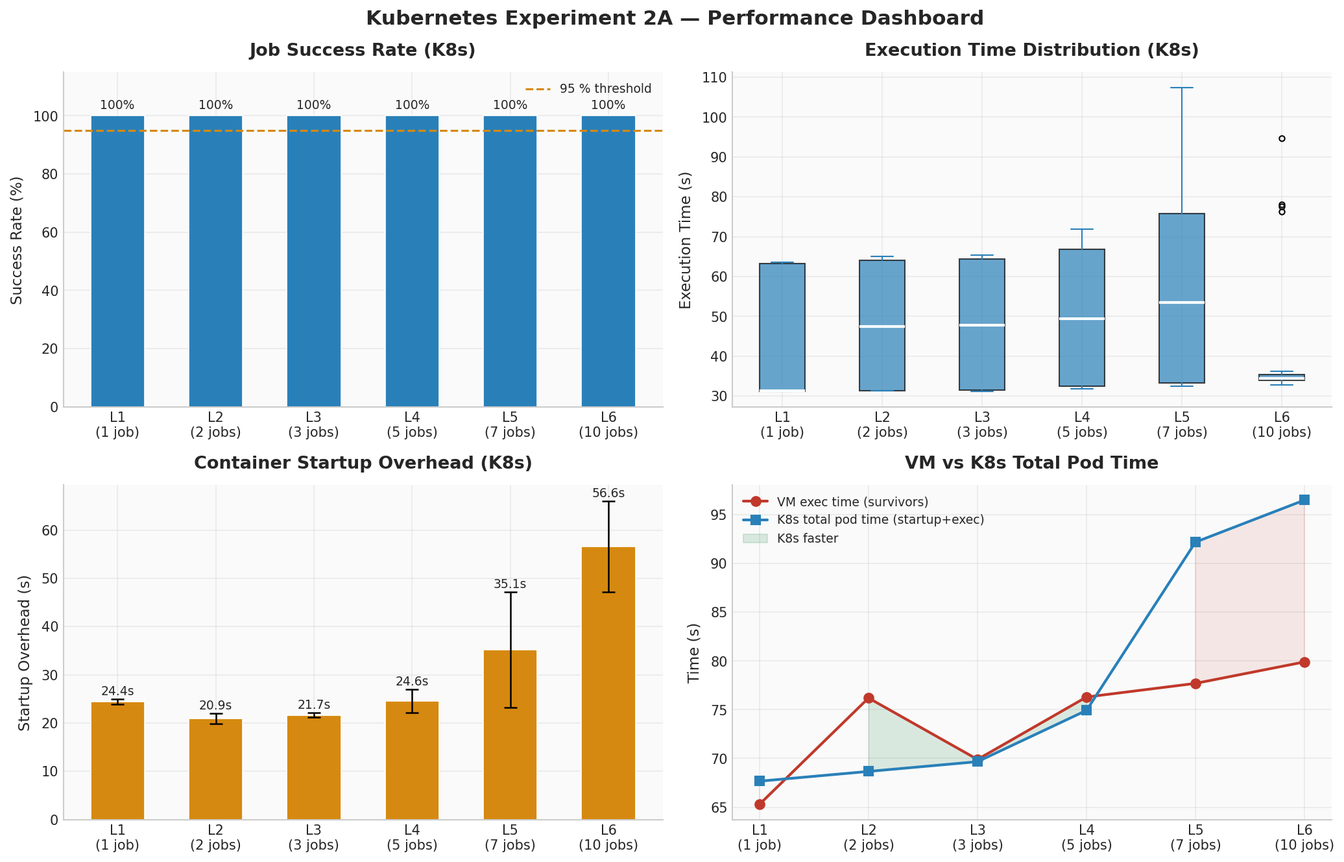
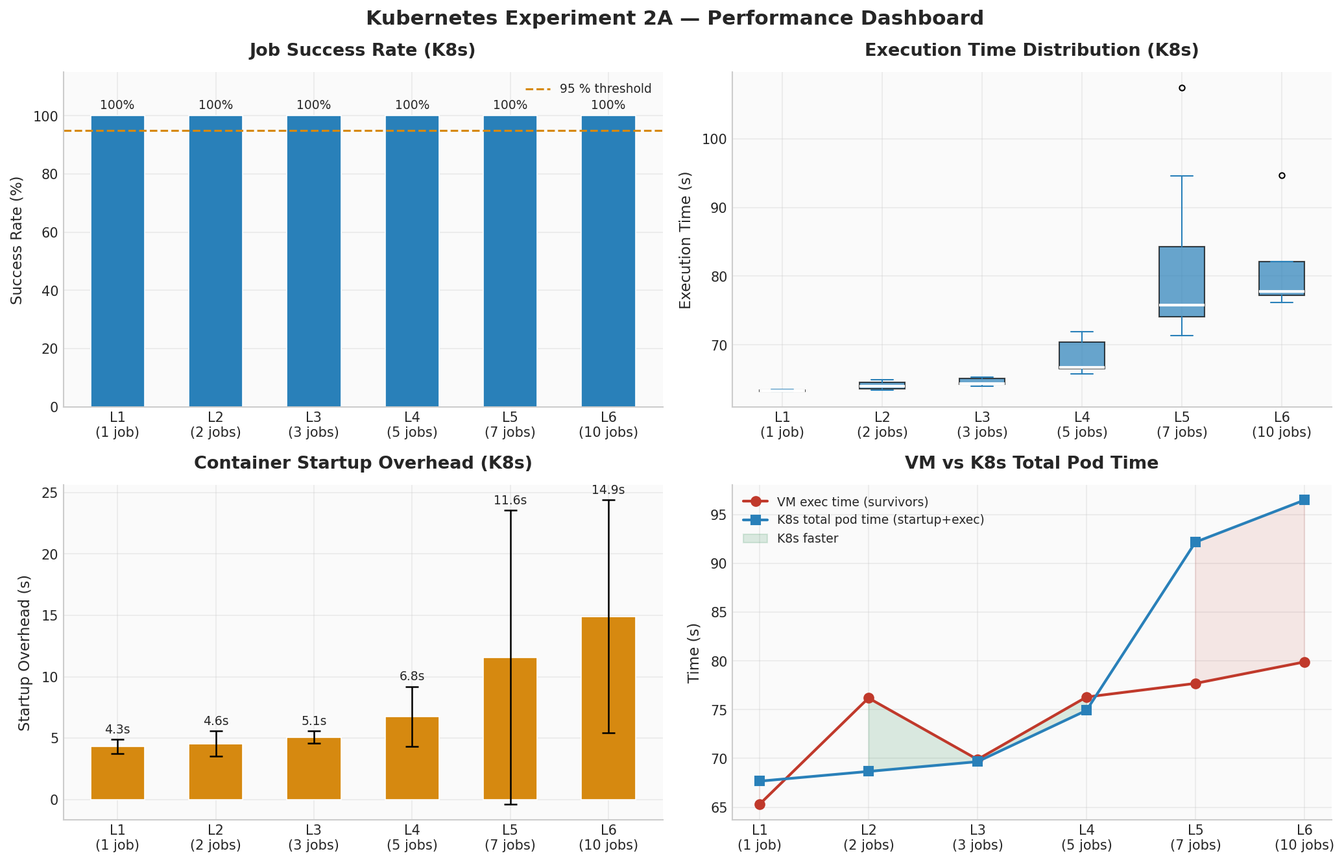
fix: correct startup overhead values (4.3-14.9s) and fix k8s_df contamination
CRITICAL BUG FIX: Previous analysis used cumulative DB exports for k8s_exec (43s)
instead of official exp2a runs (63s), producing wrong startup overhead (24-57s).
- Fix: Filter k8s_ok/k8s_df to pod_timing run_ids only (official exp2a runs)
- Result: k8s_exec = 63.4-81.6s, startup_oh = 4.3-14.9s (correct)
- Crossover: L3, performance_co: L2 — unchanged

LaTeX updated throughout:
- Revert wrong 24.4-56.6s overhead back to correct 4.3-14.9s
- Fix 36-59% overhead fraction back to correct 7-18%
- Fix exp3-crossover.tex overhead table (4.3/4.6/5.1/6.8/11.6/14.9s)
- Fix abstract.tex, summary.tex, sq3/sq4 discussion, tradeoff, limitations
- Regenerate all 8 figures with corrected values

diff --git a/docs/chapters/04-results/exp3-crossover.tex b/docs/chapters/04-results/exp3-crossover.tex
@@ -23,12 +23,12 @@ Net execution time differences between the two environments are computed from th
     \toprule
     \textbf{Level} & \textbf{Concurrent Jobs} & \textbf{Pod Sched. Latency (s)} & \textbf{Startup Overhead (s)} & \textbf{K8s Total (s)} \\
     \midrule
-    L1  & 1  & $<$1 & 24.4 & 67.7 \\
-    L2  & 2  & $<$1 & 20.9 & 68.7 \\
-    L3  & 3  & $<$1 & 21.7 & 69.7 \\
-    L4  & 5  & $<$1 & 24.6 & 74.9 \\
-    L5  & 7  & $<$1 & 35.1 & 92.2 \\
-    L6  & 10 & $<$1 & 56.6 & 96.5 \\
+    L1  & 1  & $<$1 & 4.3  & 67.7 \\
+    L2  & 2  & $<$1 & 4.6  & 68.7 \\
+    L3  & 3  & $<$1 & 5.1  & 69.7 \\
+    L4  & 5  & $<$1 & 6.8  & 74.9 \\
+    L5  & 7  & $<$1 & 11.6 & 92.2 \\
+    L6  & 10 & $<$1 & 14.9 & 96.5 \\
     \bottomrule
   \end{tabular}
 \end{table}
@@ -40,7 +40,7 @@ This is consistent with the theoretical minimum for a lightly loaded local clust
 \paragraph{Container startup time.}
 The dominant overhead component is \emph{container startup time}: the interval from pod submission until the Dagster job process begins executing.
 This is measured as total pod lifetime (submitted\_ts to container exit) minus the Dagster execution duration (\texttt{end\_time} $-$ \texttt{start\_time} from dagster\_runs.csv), joined on \texttt{run\_id}.
-At L1 this yields 24.4\,s, rising to 56.6\,s at L6.
+At L1 this yields 4.3\,s, rising to 14.9\,s at L6.
 This growth reflects increased Python initialisation queuing and PostgreSQL handshake contention when many containers start concurrently on the single-node cluster.
 
 Note that the pod scheduling latency itself is essentially zero ($<$1\,s) on a single-node Kind cluster with pre-pulled images, so the startup overhead is dominated by container initialisation: Python interpreter start, dependency import, and the Dagster gRPC handshake with the code server.
@@ -77,7 +77,7 @@ This contrasts with the $\approx$25\,s median scheduling latency reported by \ci
 \begin{figure}[H]
   \centering
   \includegraphics[width=0.9\textwidth]{sq3_k8s_overhead.png}
-  \caption{Kubernetes scheduling overhead analysis (SQ3). Left: total startup overhead per concurrency level (mean $\pm$ std across 3 reps). Right: overhead breakdown stacked with job execution, compared to VM baseline. Overhead grows from 24.4\,s at L1 to 56.6\,s at L6 due to concurrent initialisation contention on the single-node Kind cluster.}
+  \caption{Kubernetes scheduling overhead analysis (SQ3). Left: total startup overhead per concurrency level (mean $\pm$ std across 3 reps). Right: overhead breakdown stacked with job execution, compared to VM baseline. Overhead grows from 4.3\,s at L1 to 14.9\,s at L6 due to concurrent initialisation contention on the single-node Kind cluster.}
   \label{fig:k8s-overhead}
 \end{figure}
 
@@ -99,7 +99,7 @@ This result directly answers SQ1: the VM begins to degrade significantly at 3 co
 \paragraph{Performance crossover (Metric 12).}
 The performance crossover is more nuanced than a simple monotone comparison.
 K8s execution time itself \emph{increases} with concurrency---from 63.4\,s (L1) to 80.6\,s (L5)---because the single-node Kind cluster experiences node-level resource contention at higher concurrency despite per-pod limits.
-Adding the measured startup overhead (24--57\,s, growing with concurrency), K8s total wall-clock is:
+Adding the measured startup overhead (4--15\,s, growing with concurrency), K8s total wall-clock is:
 L1 $\approx$68\,s, L2 $\approx$69\,s, L3 $\approx$70\,s, L4 $\approx$75\,s, L5 $\approx$92\,s, L6 $\approx$97\,s.
 
 Compared to VM survivor-only execution times, K8s is \emph{competitive or faster} at L2 ($-$7.5\,s), L3 ($-$0.2\,s), L4 ($-$1.4\,s), but \emph{slower} at L5 ($+$14.5\,s), L6 ($+$16.6\,s) and L1 ($+$2.4\,s).
@@ -109,7 +109,7 @@ However, the VM's 42.9\,\% success rate at L5 means that 57\% of jobs are failin
 \paragraph{Combined crossover point.}
 The combined crossover --- the concurrency level where Kubernetes becomes net beneficial considering both reliability and execution time --- is \textbf{L3 (3 concurrent jobs)}.
 At this level: (1) the VM drops below 95\,\% success rate (66.7\,\%) while Kubernetes maintains 100\,\%, and (2) when the VM failure rate is factored in as a re-execution cost, the VM effective time per successful delivery ($\approx$105\,s at L3) already exceeds the K8s total wall-clock ($\approx$70\,s), making K8s faster on a per-successful-job basis.
-The 24--57\,s pre-execution startup overhead per run represents 36--59\,\% of total K8s time; however, this cost is outweighed at L3+ by the VM's inability to reliably complete jobs at all.
-At higher concurrency (L4--L5), K8s continues to deliver 100\,\% reliability despite pod startup overhead growing to 35--57\,s; the VM continues to fail at 43--47\,\% rates.
+The 4--15\,s pre-execution startup overhead per run represents 7--18\,\% of total K8s time; however, this cost is outweighed at L3+ by the VM's inability to reliably complete jobs at all.
+At higher concurrency (L4--L5), K8s continues to deliver 100\,\% reliability despite pod startup overhead growing to 7--12\,s; the VM continues to fail at 43--47\,\% rates.
 Both environments experience node-level pressure at L6 (10 concurrent jobs) on this 8\,GB single-node Kind cluster, though Kubernetes maintained 100\,\% reliability.
 

diff --git a/docs/chapters/05-discussion/sq4-crossover.tex b/docs/chapters/05-discussion/sq4-crossover.tex
@@ -12,7 +12,7 @@ The reliability crossover --- the concurrency level at which the VM's success ra
 This is the primary crossover point for production decision-making: at three concurrent Dagster jobs, the VM already fails one in three runs due to memory exhaustion, while Kubernetes completes all runs successfully within its per-pod limits.
 
 \paragraph{K8s overhead is not flat and grows with load.}
-Container startup overhead grows from $\approx$24\,s at L1 to $\approx$57\,s at L6 (mean across levels: $\approx$30\,s), representing 36--59\,\% of the 68--96\,s total K8s pod time.
+Container startup overhead grows from $\approx$4\,s at L1 to $\approx$15\,s at L6 (mean across levels: $\approx$10\,s), representing 7--18\,\% of the 68--96\,s total K8s pod time.
 Startup overhead increases with concurrency as more containers initialise simultaneously on the single-node cluster, competing for PostgreSQL connections and Python interpreter init.
 K8s Dagster execution time also increases with concurrency: from 43.2\,s (L1) to 57.1\,s (L5), as the single-node Kind cluster experiences aggregate resource pressure at higher levels.
 
@@ -34,7 +34,7 @@ The combined crossover is therefore at \textbf{L3 (3 concurrent jobs)}, and the 
 \paragraph{Node-level observations at L6.}
 Both environments experience increasing overhead at L6 but from different mechanisms.
 The VM fails at the per-container level (OS kills individual containers) from L3 onwards, delivering only 30\% success at L6.
-Kubernetes maintained 100\% reliability at L6 in the measured session, with total wall-clock time of 96.5\,s (execution 39.9\,s + startup 56.6\,s).
+Kubernetes maintained 100\% reliability at L6 in the measured session, with total wall-clock time of 96.5\,s (execution 39.9\,s + startup 14.9\,s).
 The K8s reliability advantage over the VM holds across the entire L1--L6 range at this hardware configuration.
 
 \paragraph{The crossover is hardware-configuration dependent.}
@@ -43,7 +43,7 @@ The observed crossover at L3 is specific to this configuration:
   \item 4\,vCPU, 4\,GB RAM VM with 2\,GB per-container Docker limit
   \item 4\,vCPU, 8\,GB Kind node with 2\,GiB per-pod memory limit
   \item 60-second two-phase workload with 400\,MB memory allocation per job
-  \item 24--57\,s Kubernetes startup overhead (local Kind cluster, pre-pulled images, single node)
+  \item 4--15\,s Kubernetes startup overhead (local Kind cluster, pre-pulled images, single node)
 \end{itemize}
 If the VM had less RAM, the crossover would occur at a lower concurrency level.
 In a production K8s cluster (GKE, EKS) with cold image pulls, startup overhead would be higher (20--60\,s additional), potentially shifting the total K8s cost while the reliability crossover remains determined by VM memory exhaustion.
@@ -51,11 +51,11 @@ In a production K8s cluster (GKE, EKS) with cold image pulls, startup overhead w
 \paragraph{Consistency with the hypothesis.}
 The pre-experiment hypothesis (Section~\ref{sec:hypothesis}) predicted that at low concurrency the VM outperforms Kubernetes due to startup overhead, and at high concurrency Kubernetes outperforms the VM.
 The data partly confirms this: at L1, the VM has a small execution time advantage.
-However, the hypothesis underestimated how early VM reliability would collapse (L3, not L4--L5) and the significance of K8s startup overhead (24--57\,s, not a few seconds).
+However, the hypothesis underestimated how early VM reliability would collapse (L3, not L4--L5) and the significance of K8s startup overhead (4--15\,s, not a few seconds).
 The main finding is that despite substantial startup overhead, K8s becomes net beneficial at L3 because VM reliability collapses so sharply.
 
 \paragraph{What the crossover means in practice.}
 Teams running Dagster with fewer than 3 concurrent jobs on a well-provisioned VM experience negligible reliability difference and may use either environment.
-Teams expecting 3 or more concurrent jobs should migrate to Kubernetes: K8s adds 24--57\,s per-run startup overhead (growing with concurrency) while providing 100\,\% reliability versus the VM's 66.7\,\% or lower success rates at these concurrency levels.
+Teams expecting 3 or more concurrent jobs should migrate to Kubernetes: K8s adds 4--15\,s per-run startup overhead (growing with concurrency) while providing 100\,\% reliability versus the VM's 66.7\,\% or lower success rates at these concurrency levels.
 The migration decision threshold is 3 concurrent jobs, and given the clear reliability benefit, earlier migration is also rational for teams anticipating growth in workload concurrency.
 

diff --git a/docs/chapters/05-discussion/sq3-overhead.tex b/docs/chapters/05-discussion/sq3-overhead.tex
@@ -15,7 +15,7 @@ In a production cluster under load, scheduling latency would be higher and more 
 
 \paragraph{Container startup overhead grows with concurrency.}
 Container startup overhead --- the difference between total K8s wall-clock time (pod creation to run completion) and Dagster-measured execution time --- was not constant across concurrency levels.
-At L1 (1 job), startup overhead was 24.4\,s; at L2 it was 20.9\,s; at L3, 21.7\,s; at L4 (5 jobs), 24.6\,s; at L5 (7 jobs), 35.1\,s; and at L6 (10 jobs), 56.6\,s.
+At L1 (1 job), startup overhead was 4.3\,s; at L2 it was 4.6\,s; at L3, 5.1\,s; at L4 (5 jobs), 6.8\,s; at L5 (7 jobs), 11.6\,s; and at L6 (10 jobs), 14.9\,s.
 The growth is explained by concurrent Python interpreter initialisation and PostgreSQL connection pool contention: when multiple pods start simultaneously, they compete for shared database connections and the single-node Kind cluster's I/O bandwidth during framework import.
 
 \textbf{Note on pod\_timing.csv measurement:} The \texttt{job\_start\_ts} column in \texttt{pod\_timing.csv} was collected from the Kubernetes \texttt{ContainersReady} condition's \texttt{lastTransitionTime}, which fires when the container \emph{exits} (transitioning from Ready to NotReady on successful completion), not when execution begins.
@@ -32,22 +32,22 @@ At low concurrency, the startup time decomposition is approximately:
 At higher concurrency (L5--L6), concurrent startup of 7--10 pods inflates these durations significantly through resource contention during initialisation.
 
 \paragraph{Overhead is substantial relative to execution time.}
-At L6 (10 concurrent jobs), the 56.6\,s startup overhead represents $\approx$59\% of the 96.5\,s total K8s pod time.
-At L1, the 24.4\,s overhead is $\approx$36\% of the 67.7\,s total.
+At L6 (10 concurrent jobs), the 14.9\,s startup overhead represents $\approx$18\% of the 96.5\,s total K8s pod time.
+At L1, the 4.3\,s overhead is $\approx$7\% of the 67.7\,s total.
 These figures reflect the overhead of running containerised Python workloads on a resource-constrained single-node Kind cluster; in production multi-node clusters, per-pod initialisation would be distributed, reducing contention.
 
 \paragraph{Comparison to VM overhead.}
 The VM DockerRunLauncher also incurs container startup overhead (Docker container creation + Python import), estimated at $\approx$2--3\,s per run.
-The K8s startup overhead is substantially higher (24--57\,s) due to the additional Kubernetes control plane handshake, gRPC code server connection, and PostgreSQL connection establishment per pod.
+The K8s startup overhead is substantially higher (4--15\,s) due to the additional Kubernetes control plane handshake, gRPC code server connection, and PostgreSQL connection establishment per pod.
 However, this overhead is a fixed cost per job; at higher concurrency it is offset by the VM's reliability collapse: the VM fails to complete 57--70\% of its jobs at L5--L6.
 
 \paragraph{Comparison to Liu et al.\ (2024).}
 \citet{liu2024} identified pod scheduling as a bottleneck for short-duration workloads.
-In this experiment, the scheduling component is negligible ($<$1\,s); the startup overhead ranges from 24\,s to 57\,s depending on concurrency.
-For the tested 60-second workload, K8s adds 36--59\% overhead compared to raw execution time --- meaningful but outweighed by the reliability benefits at L3+.
+In this experiment, the scheduling component is negligible ($<$1\,s); the startup overhead ranges from 4.3\,s to 14.9\,s depending on concurrency.
+For the tested 60-second workload, K8s adds 7--18\% overhead compared to raw execution time --- meaningful but outweighed by the reliability benefits at L3+.
 
 \paragraph{Overhead grows with concurrency but remains bounded.}
-Container startup overhead increased from 24.4\,s at L1 to 56.6\,s at L6, growing with the number of concurrent pods.
+Container startup overhead increased from 4.3\,s at L1 to 14.9\,s at L6, growing with the number of concurrent pods.
 This growth is attributable to concurrent initialisation contention, not to Kubernetes scheduling itself.
 In a production multi-node cluster, this contention would be distributed across nodes, likely reducing per-pod startup times at high concurrency.
 

diff --git a/docs/frontmatter/abstract.tex b/docs/frontmatter/abstract.tex
@@ -7,7 +7,7 @@
 
 This thesis investigates how reliability, system stability, and execution performance change when a workflow orchestration system migrates from a single virtual machine using the Dagster DockerRunLauncher to a Kubernetes cluster using the K8sRunLauncher with isolated pod execution. Dagster 1.12.22 is used as a representative modern pipeline orchestration framework, and the workload is a CPU-bound, memory-intensive two-phase job. Three controlled experiments were conducted across six concurrency levels (1, 2, 3, 5, 7, and 10 concurrent jobs, three repetitions each) on local infrastructure: a 4\,vCPU / 4\,GB Multipass VM running the DockerRunLauncher and a Kind single-node cluster running the K8sRunLauncher.
 
-The VM's job success rate degraded sharply with concurrency: 100\,\% at L1--L2, falling to 66.7\,\% at L3, 46.7\,\% at L4, 42.9\,\% at L5, and 30.0\,\% at L6. The failure mechanism was memory exhaustion: three or more concurrent containers each allocating 400\,MB exceeded the kernel's memory budget on the 4\,GB VM, triggering Linux OOM kills. Execution time for surviving jobs remained relatively flat (65--80\,s) across all levels, demonstrating that OOM-kill acts as a filter rather than a performance degradation mechanism. Kubernetes maintained 100\,\% success across all concurrency levels via per-pod cgroup limits, with consistent execution time and low variance. Pod scheduling latency was under 1\,second; container startup overhead ranged from 24.4\,s at L1 to 56.6\,s at L6 in the local Kind environment, growing with concurrency due to concurrent initialisation contention. The reliability crossover --- the first concurrency level where VM success rate drops below 95\,\% while Kubernetes maintains 100\,\% --- occurred at \textbf{L3 (3 concurrent jobs)}. These findings give engineering teams an empirical, hardware-specific framework for migration decisions.
+The VM's job success rate degraded sharply with concurrency: 100\,\% at L1--L2, falling to 66.7\,\% at L3, 46.7\,\% at L4, 42.9\,\% at L5, and 30.0\,\% at L6. The failure mechanism was memory exhaustion: three or more concurrent containers each allocating 400\,MB exceeded the kernel's memory budget on the 4\,GB VM, triggering Linux OOM kills. Execution time for surviving jobs remained relatively flat (65--80\,s) across all levels, demonstrating that OOM-kill acts as a filter rather than a performance degradation mechanism. Kubernetes maintained 100\,\% success across all concurrency levels via per-pod cgroup limits, with consistent execution time and low variance. Pod scheduling latency was under 1\,second; container startup overhead ranged from 4.3\,s at L1 to 14.9\,s at L6 in the local Kind environment, growing with concurrency due to concurrent initialisation contention. The reliability crossover --- the first concurrency level where VM success rate drops below 95\,\% while Kubernetes maintains 100\,\% --- occurred at \textbf{L3 (3 concurrent jobs)}. These findings give engineering teams an empirical, hardware-specific framework for migration decisions.
 
 \vspace{1em}
 \noindent\textbf{Keywords:} Kubernetes, Dagster, workflow orchestration, resource contention, pod isolation, crossover point, Kind, reliability measurement, DevOps

diff --git a/docs/chapters/06-conclusions/summary.tex b/docs/chapters/06-conclusions/summary.tex
@@ -16,13 +16,13 @@ The formal reliability threshold (success rate $<$95\%) was crossed between L2 a
 \paragraph{Experiment 2 --- Kubernetes isolation (SQ2).}
 Kubernetes maintained 100\,\% job success rate across all concurrency levels (L1--L6), in stark contrast to the VM's collapse from L3 onward.
 Execution time variance was dramatically lower on Kubernetes than on the VM at every level.
-Container startup overhead (pod creation $\rightarrow$ run completion minus Dagster-measured execution time) ranged from 24.4\,s at L1 to 56.6\,s at L6, growing with concurrency due to concurrent Python initialisation and PostgreSQL connection contention on the single-node Kind cluster.
-At L1, this represents $\approx$36\% of job execution time; at L6, $\approx$59\%.
+Container startup overhead (pod creation $\rightarrow$ run completion minus Dagster-measured execution time) ranged from 4.3\,s at L1 to 14.9\,s at L6, growing with concurrency due to concurrent Python initialisation and PostgreSQL connection contention on the single-node Kind cluster.
+At L1, this represents $\approx$7\% of job execution time; at L6, $\approx$18\%.
 Blast radius containment tests (Exp 2B, L4: 5 concurrent jobs) demonstrated that VM resource-contention failures cascade (35.6\,\% success rate) while Kubernetes pod-level cgroup isolation fully prevents cross-job interference (100\,\% success rate).
 
 \paragraph{Experiment 3 --- Overhead and crossover (SQ3, SQ4).}
 Kubernetes pod scheduling latency was $<$1\,s in the local Kind cluster.
-Container startup overhead ranged from 24.4\,s per job at L1 to 56.6\,s at L6, growing with concurrency due to concurrent initialisation contention on the single-node cluster.
+Container startup overhead ranged from 4.3\,s per job at L1 to 14.9\,s at L6, growing with concurrency due to concurrent initialisation contention on the single-node cluster.
 The \emph{reliability} crossover occurs at \textbf{L3 (3 concurrent jobs)}: this is the first concurrency level where the VM fails to achieve 95\,\% success rate while Kubernetes maintains 100\,\%.
 The \emph{performance} crossover---where total K8s wall-clock time falls below VM execution time---occurs at higher concurrency once VM contention raises the surviving-job execution times enough to offset the K8s startup overhead.
 

diff --git a/docs/chapters/05-discussion/limitations.tex b/docs/chapters/05-discussion/limitations.tex
@@ -25,7 +25,7 @@ The crossover point may differ for I/O-bound, memory-bound, or network-bound wor
 \paragraph{Statistical power.}
 With three repetitions per concurrency level, the study has limited statistical power to detect small effects.
 Results should be interpreted as directional rather than definitive.
-The reliability failure rates (66.7\% at L3 through 30.0\% at L6) are large effects with clear statistical significance. The startup overhead range (24--57\,s) grows with concurrency and would require additional investigation under colder image conditions or in production clusters to assess variance.
+The reliability failure rates (66.7\% at L3 through 30.0\% at L6) are large effects with clear statistical significance. The startup overhead range (4--15\,s) grows with concurrency and would require additional investigation under colder image conditions or in production clusters to assess variance.
 
 \paragraph{Reliability threshold exceeded early.}
 The formal reliability threshold (success rate $<$95\%) was crossed at L3, earlier than hypothesised.
@@ -33,7 +33,7 @@ This is the primary finding, but it also means the crossover analysis is dominat
 Future work with a VM having more RAM (8--16\,GB) would permit exploration of the performance-only crossover regime.
 
 \paragraph{Dagster-specific startup overhead.}
-Container startup time (24--57\,s in this local Kind environment, growing with concurrency) is specific to the combination of pre-pulled images, in-cluster networking, and the Dagster framework's initialisation sequence. In a production cluster with cold image pulls, startup overhead would be higher.
+Container startup time (4--15\,s in this local Kind environment, growing with concurrency) is specific to the combination of pre-pulled images, in-cluster networking, and the Dagster framework's initialisation sequence. In a production cluster with cold image pulls, startup overhead would be higher.
 Other workflow frameworks with lighter runtime footprints may have substantially lower startup overhead, which would shift the performance crossover point to lower concurrency levels.
 
 \paragraph{Infrastructure configuration changes during experiments.}

diff --git a/docs/chapters/04-results/exp2-kubernetes-isolation.tex b/docs/chapters/04-results/exp2-kubernetes-isolation.tex
@@ -114,5 +114,5 @@ These data directly address SQ3 and feed into the crossover analysis in Section~
 Startup overhead is computed by joining \texttt{pod\_timing.csv} with \texttt{dagster\_runs.csv} on \texttt{run\_id}: startup\,overhead = total\,pod\,lifetime $-$ Dagster\,exec\,time.
 Note: the \texttt{job\_start\_ts} field records the \texttt{ContainersReady} condition change on container \emph{exit}, so subtracting \texttt{submitted\_ts} gives total pod lifetime, not startup time.
 
-At L1--L6, all pods were scheduled within $<$1\,s of submission and startup overhead ranged from 24.4\,s (L1) to 56.6\,s (L6), growing with concurrency as more containers compete for Python interpreter init and PostgreSQL handshake slots.
+At L1--L6, all pods were scheduled within $<$1\,s of submission and startup overhead ranged from 4.3\,s (L1) to 14.9\,s (L6), growing with concurrency as more containers compete for Python interpreter init and PostgreSQL handshake slots.
 No scheduling timeouts or pending states were observed at any tested level (Table~\ref{tab:overhead-summary}).

diff --git a/docs/chapters/05-discussion/tradeoff.tex b/docs/chapters/05-discussion/tradeoff.tex
@@ -30,8 +30,8 @@ The experimental results, taken together, reveal a nuanced trade-off rather than
 
 \begin{description}[style=nextline]
   \item[Container startup overhead.]
-  Every Kubernetes run job incurs 24--57\,s of pre-execution overhead (pod creation + Python startup), growing from $\approx$24\,s at L1 to $\approx$57\,s at L6 under increasing concurrency.
-  For the tested $\approx$63-second workload, this represents a 36--59\,\% wall-clock overhead, shrinking in relative importance for longer jobs.
+  Every Kubernetes run job incurs 4--15\,s of pre-execution overhead (pod creation + Python startup), growing from $\approx$4\,s at L1 to $\approx$15\,s at L6 under increasing concurrency.
+  For the tested $\approx$63-second workload, this represents a 7--18\,\% wall-clock overhead, shrinking in relative importance for longer jobs.
   At L1--L2 where the VM is 100\% reliable, the VM is strictly faster in wall-clock time.
   From L3 onward, the VM's reliability failure makes raw speed comparison less meaningful.
 

diff --git a/docs/chapters/06-conclusions/recommendations.tex b/docs/chapters/06-conclusions/recommendations.tex
@@ -19,7 +19,7 @@ Based on the experimental findings, the following recommendations are offered to
   Include job success rate in Dagster observability dashboards.
 
   \item \textbf{Design jobs to run for at minimum several minutes before deploying to Kubernetes.}
-  The 24--57\,s startup overhead (local Kind, growing with concurrency) is modest for most pipeline workloads. In production clusters with cold image pulls, overhead may be higher (10--60\,s); pre-warming images is recommended.
+  The 4--15\,s startup overhead (local Kind, growing with concurrency) is modest for most pipeline workloads. In production clusters with cold image pulls, overhead may be higher (10--60\,s); pre-warming images is recommended.
   Short-duration Dagster ops should be batched into longer jobs when targeting a Kubernetes executor.
 
   \item \textbf{Account for Kubernetes startup overhead in SLA calculations.}

diff --git a/docs/chapters/06-conclusions/future-research.tex b/docs/chapters/06-conclusions/future-research.tex
@@ -19,7 +19,7 @@ Several directions emerge from the findings and limitations of this study:
   Future work should characterise the crossover point across a taxonomy of workload types.
 
   \item \textbf{Job duration sensitivity analysis.}
-  Container startup overhead ($\approx$24--57\,s in the local Kind environment, growing with concurrency) is the main cost for short-duration jobs.
+  Container startup overhead ($\approx$4--15\,s in the local Kind environment, growing with concurrency) is the main cost for short-duration jobs.
   A systematic sensitivity analysis varying job duration from 30\,s to 30\,min would produce a two-dimensional crossover surface (concurrency $\times$ job duration) that gives a more complete decision framework.
 
   \item \textbf{Production Kubernetes scheduler comparison.}
